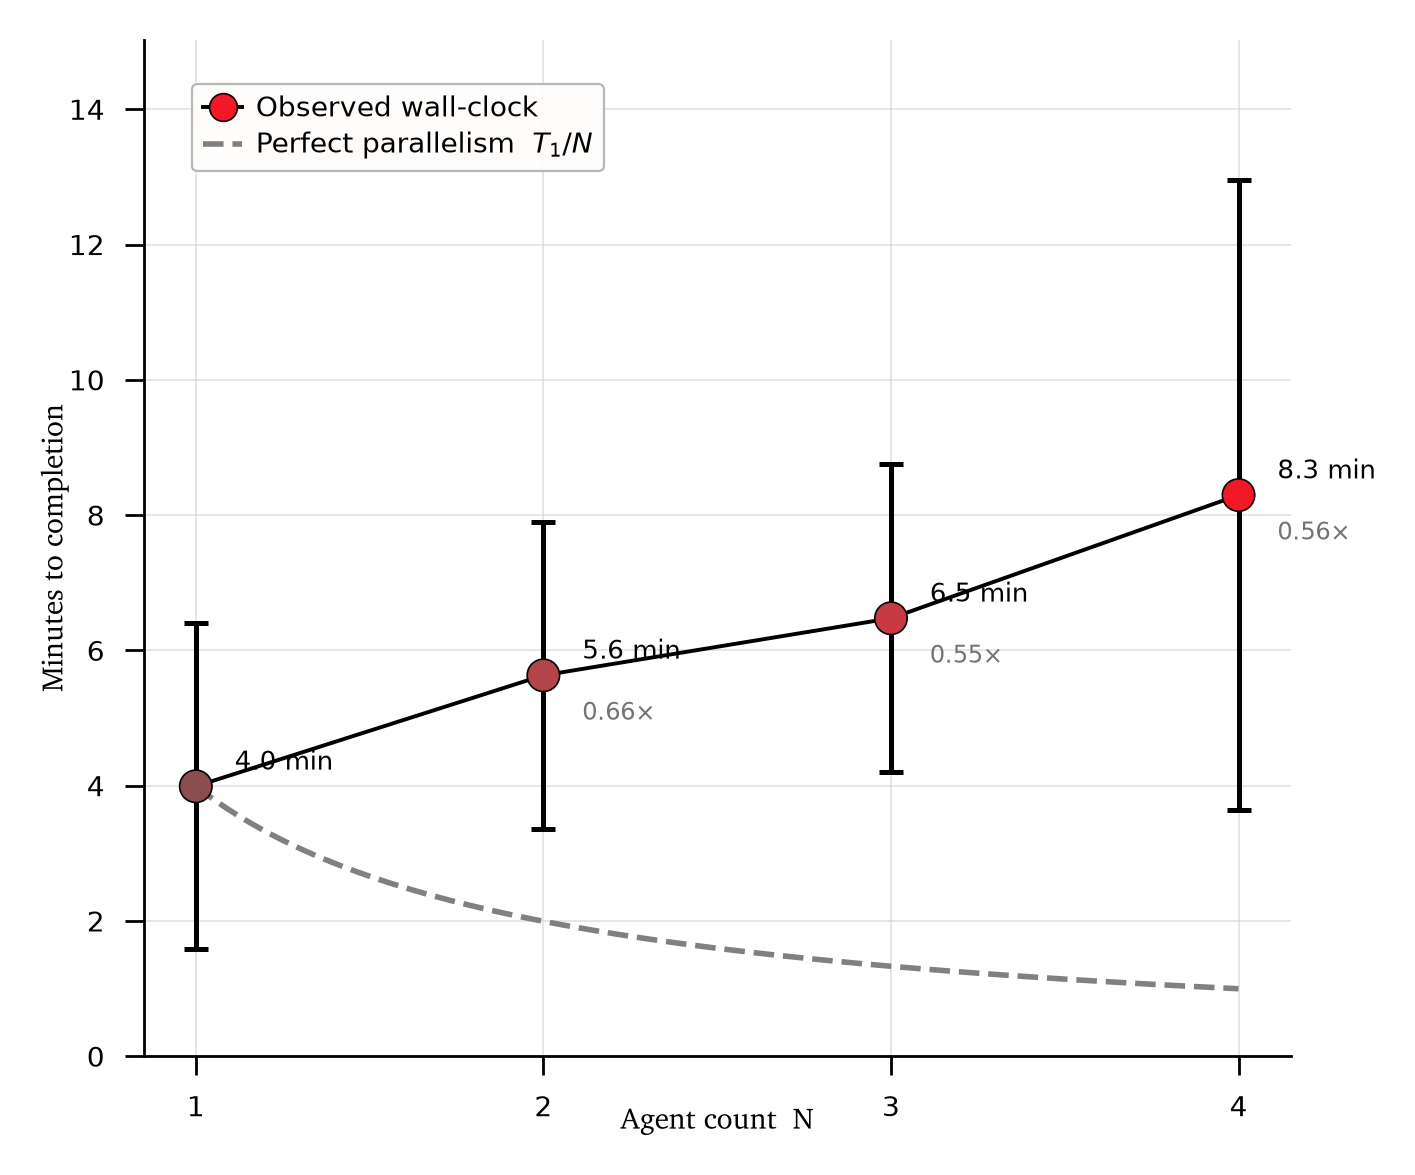
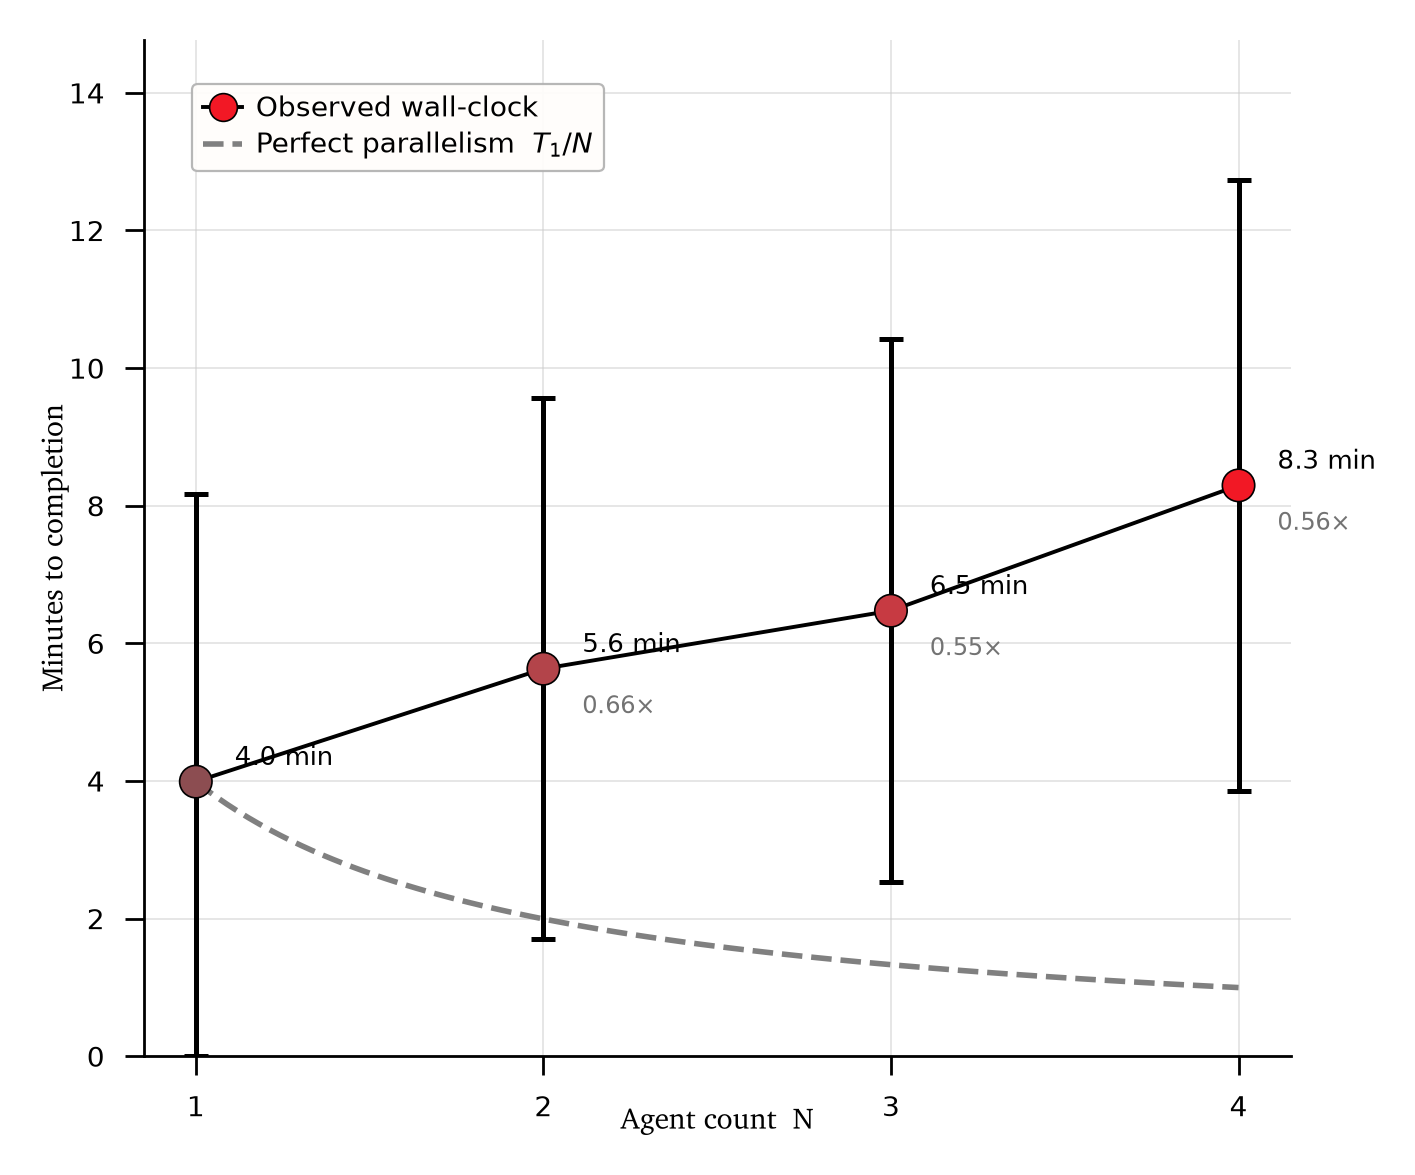
figures: switch every error bar to +/-1 SD across pool means
Replaces the 95% confidence intervals with plain standard deviation, at the
author's request, for a simpler and more uniform story. Deliberately kept to
ONE self-contained commit so `git revert` restores the CI bars wholesale.

What changed. Every series in every figure now draws the same thing: average
the runs within each pool, then take the SD across those 14 (or 6) pool means.
_pool_sd (scaling) and _sd (leader) are the only constructions left; the 95% t
tables, the Wilson intervals and the per-figure _cost_ci/_time_ci/_correctness_ci
helpers are gone.

This also settles an inconsistency the CI version carried: fig2a's blue series
clustered by pool while its orange series treated all 44 runs as independent,
and fig3b did the same. Runs inside a pool share a repo, a task and a feature
clique, so the unclustered bars were 1.3x-2.6x too narrow. Both series are now
built identically, so they are directly comparable.

Two choices worth recording:

- SD across POOL means, not across runs. For the binary all-pass outcome the
  run-level SD is just sqrt(p(1-p)) -- fixed by the rate already plotted, so it
  carries no information and would read 0.46 at N=4.
- Bars clipped to the logical bound: [0,1] for the fractions, >=0 for cost and
  minutes. A pass rate cannot exceed 100%, so clipping is honest rather than
  cosmetic.

Two layout fixes the taller bars forced:

- fig2a, fig3b and fig3d overlay two series on one x, so the taller bar sat on
[…]

diff --git a/masters_thesis/scaling_analysis/figures.py b/masters_thesis/scaling_analysis/figures.py
@@ -130,66 +130,56 @@ def _bar_colour(colour, darken=0.60, sat_boost=1.15):
     return colorsys.hsv_to_rgb(h, min(1.0, s * sat_boost), max(0.0, v * darken))
 
 
-# two-sided t critical values at 95% by degrees of freedom (small-sample honest)
-_T975 = {1: 12.706, 2: 4.303, 3: 3.182, 4: 2.776, 5: 2.571, 6: 2.447, 7: 2.365,
-         8: 2.306, 9: 2.262, 10: 2.228, 11: 2.201, 12: 2.179, 13: 2.160}
+def _pool_sd(recs, field, key_n="N", scale=1.0):
+    """Per-N mean and +/-1 SD across POOL means, for every error bar we draw.
 
+    One construction for every series in every figure: average the runs within
+    each pool, then take the plain standard deviation across those pool means.
+    Bars are the *spread between pools*, not a confidence interval — they make
+    no inferential claim and are not a significance test.
 
-def _correctness_ci(recs):
-    """Per-N 95% error bars for fig2a.
-    Graded score: CI of the mean, clustered by pool (t across the pool means, so
-    the real replication unit is the pool, not the individual run).
-    All-pass rate: Wilson 95% interval for a binomial proportion.
-    Returns {N: {score_hw, allp_lo, allp_hi}} as distances from each point."""
+    The pool is the unit rather than the run for two reasons. Runs inside a
+    pool share a repo, a task and a feature clique, so they are not independent
+    observations; and for a binary outcome (all-pass) the run-level SD is just
+    sqrt(p(1-p)), which is fixed by the rate itself and carries no information
+    beyond the point already plotted.
+
+    Returns {N: {"mean", "sd", "n_pools"}}, with values multiplied by `scale`
+    (used to convert seconds to minutes).
+    """
     from collections import defaultdict
 
-    by_n = defaultdict(list)
+    by_n = defaultdict(lambda: defaultdict(list))
     for r in recs:
-        by_n[r["N"]].append(r)
+        v = r[field]
+        if v is None:
+            continue
+        by_n[r[key_n]][r["pool_id"]].append(float(v) * scale)
     out = {}
-    for N, g in by_n.items():
-        by_pool = defaultdict(list)
-        for r in g:
-            by_pool[r["pool_id"]].append(r["score"])
+    for N, by_pool in by_n.items():
         pool_means = np.array([np.mean(v) for v in by_pool.values()])
         k = len(pool_means)
-        if k > 1:
-            sem = pool_means.std(ddof=1) / np.sqrt(k)
-            score_hw = _T975.get(k - 1, 1.96) * sem
-        else:
-            score_hw = 0.0
-
-        n = len(g)
-        p = sum(1 for r in g if r["all_passed"]) / n
-        z = 1.96
-        denom = 1 + z * z / n
-        center = (p + z * z / (2 * n)) / denom
-        half = z * np.sqrt(p * (1 - p) / n + z * z / (4 * n * n)) / denom
-        out[N] = {"score_hw": score_hw,
-                  "allp_lo": p - (center - half),
-                  "allp_hi": (center + half) - p,
+        out[N] = {"mean": float(pool_means.mean()),
+                  "sd": float(pool_means.std(ddof=1)) if k > 1 else 0.0,
                   "n_pools": k}
     return out
 
 
-def _cost_ci(recs):
-    """Per-N 95% CI of the mean cost, clustered by pool (same construct as the
-    graded-score bars in fig2a). Returns {N: {cost_hw, n_pools}}."""
-    from collections import defaultdict
+def _clip_bars(points, sds, lo=None, hi=None):
+    """Split symmetric SD bars into [down, up] distances, clipped to a range.
 
-    by_n = defaultdict(list)
-    for r in recs:
-        by_n[r["N"]].append(r)
-    out = {}
-    for N, g in by_n.items():
-        by_pool = defaultdict(list)
-        for r in g:
-            by_pool[r["pool_id"]].append(r["cost"])
-        pool_means = np.array([np.mean(v) for v in by_pool.values()])
-        k = len(pool_means)
-        sem = pool_means.std(ddof=1) / np.sqrt(k) if k > 1 else 0.0
-        out[N] = {"cost_hw": _T975.get(k - 1, 1.96) * sem, "n_pools": k}
-    return out
+    Graded score and all-pass are fractions, so a bar may not extend past 0 or
+    1; wall-clock and cost may not go below 0. Clipping at the logical bound is
+    honest — the quantity genuinely cannot live outside it — and keeps the bars
+    inside the axes.
+    """
+    down, up = [], []
+    for p, s in zip(points, sds):
+        d = s if lo is None else min(s, p - lo)
+        u = s if hi is None else min(s, hi - p)
+        down.append(max(d, 0.0))
+        up.append(max(u, 0.0))
+    return [down, up]
 
 
 def _save(fig, name, facecolor=SURFACE):
@@ -248,21 +238,30 @@ def figure2a(recs):
     # carry its own fraction-scaled colour (green = score, orange = all-pass)
     ax.plot(ns, score, "-", color="black", lw=0.7, zorder=3)
     ax.plot(ns, allp, "-", color="black", lw=0.7, zorder=3)
-    # 95% CI error bars (score: pool-clustered t; all-pass: Wilson)
-    ci = _correctness_ci(recs)
+    # +/-1 SD across pool means — the same construction for BOTH series, so the
+    # two sets of bars are directly comparable
+    ci = _pool_sd(recs, "score")
+    ap = _pool_sd(recs, "all_passed")
     # two series, two bar colours: blue bars belong to the graded score, rust
-    # bars to the all-pass rate. The intervals overlap vertically at several N,
-    # so a shared grey left them unattributable.
+    # bars to the all-pass rate. The bars overlap vertically at several N, so a
+    # shared grey left them unattributable.
     # the orange is lifted (darken 0.82, not the default 0.60) so it reads as
     # the warm series at a glance — the brightest value that still clears the
     # 4.5:1 contrast floor on white, at 4.7
     score_bar = _bar_colour(_score_shade(0.95))
     allp_bar = _bar_colour(_allpass_shade(0.88), darken=0.82)
-    ax.errorbar(ns, score, yerr=[ci[N]["score_hw"] for N in ns], fmt="none",
-                ecolor=score_bar, elinewidth=0.9, capsize=2.2, capthick=0.9, zorder=3)
-    ax.errorbar(ns, allp, yerr=[[ci[N]["allp_lo"] for N in ns],
-                                [ci[N]["allp_hi"] for N in ns]], fmt="none",
-                ecolor=allp_bar, elinewidth=0.9, capsize=2.2, capthick=0.9, zorder=3)
+    # SD bars are far taller than the old CIs and both series share an x, so the
+    # all-pass bar would sit exactly on top of the score bar and hide it. Dodge
+    # the BARS a hair apart; markers and lines stay on the true N.
+    dx = 0.055
+    ax.errorbar([n - dx for n in ns], score,
+                yerr=_clip_bars(score, [ci[N]["sd"] for N in ns], 0.0, 1.0),
+                fmt="none", ecolor=score_bar, elinewidth=0.9, capsize=2.2,
+                capthick=0.9, zorder=3)
+    ax.errorbar([n + dx for n in ns], allp,
+                yerr=_clip_bars(allp, [ap[N]["sd"] for N in ns], 0.0, 1.0),
+                fmt="none", ecolor=allp_bar, elinewidth=0.9, capsize=2.2,
+                capthick=0.9, zorder=3)
     ax.scatter(ns, score, s=32, marker="o", zorder=4, linewidths=0.3,
                edgecolors="black", c=[_score_shade(v) for v in score])
     ax.scatter(ns, allp, s=32, marker="s", zorder=4, linewidths=0.3,
@@ -274,7 +273,7 @@ def figure2a(recs):
     for x, y in zip(ns, allp):
         ax.annotate(f"{y:.0%}", (x, y), textcoords="offset points", xytext=(8, -8),
                     ha="left", fontsize=4.7, color="black", fontname="Helvetica")
-    # pool count behind each N's error bars (drives the CI width)
+    # pool count behind each N's error bars (the SD is taken across these)
     for N in ns:
         ax.text(N, 1.10, f"{ci[N]['n_pools']} pools", ha="center", va="bottom",
                 fontsize=4.3, color="0.45", fontname="Helvetica")
@@ -306,14 +305,15 @@ def figure2b(recs):
     ax.plot(xline, slope * xline + intercept, "--", color="0.5", lw=1.0, zorder=2)
     ax.plot(ns, cost, "-", color="black", lw=0.7, zorder=3)
     # 95% CI of mean cost, clustered by pool (matches fig2a)
-    ci = _cost_ci(recs)
+    ci = _pool_sd(recs, "cost")  # +/-1 SD across pool means
     # one hue (violet); markers deepen/brighten with cost but read as one series
     lo, hi = min(cost), max(cost)
     cvals = [_mono_shade(c, COST_HUE, lo, hi) for c in cost]
     # single series, so there is nothing to disambiguate by hue: black gives the
     # bars maximum contrast and keeps them distinct from the grey linear fit
-    ax.errorbar(ns, cost, yerr=[ci[N]["cost_hw"] for N in ns], fmt="none",
-                ecolor="black", elinewidth=0.9, capsize=2.2, capthick=0.9, zorder=3)
+    ax.errorbar(ns, cost, yerr=_clip_bars(cost, [ci[N]["sd"] for N in ns], lo=0.0),
+                fmt="none", ecolor="black", elinewidth=0.9, capsize=2.2,
+                capthick=0.9, zorder=3)
     ax.scatter(ns, cost, s=34, marker="o", zorder=4, linewidths=0.3,
                edgecolors="black", c=cvals)
     for x, y in zip(ns, cost):
@@ -321,10 +321,10 @@ def figure2b(recs):
                     ha="left", fontsize=4.7, color="black", fontname="Helvetica")
     # pool count above each error bar (drives the CI width)
     for N, y in zip(ns, cost):
-        ax.annotate(f"{ci[N]['n_pools']} pools", (N, y + ci[N]["cost_hw"]),
+        ax.annotate(f"{ci[N]['n_pools']} pools", (N, y + ci[N]["sd"]),
                     textcoords="offset points", xytext=(0, 4), ha="center",
                     va="bottom", fontsize=4.3, color="0.45", fontname="Helvetica")
-    top = max(c + ci[N]["cost_hw"] for N, c in zip(ns, cost))
+    top = max(c + ci[N]["sd"] for N, c in zip(ns, cost))
     ax.set_ylim(0, top * 1.16)
     _fig2_chrome(fig, ax, ns, "US dollars")
     return _save(fig, "fig2b_cost.png", facecolor="white")
@@ -448,14 +448,15 @@ def figure2e(recs):
     ax.plot(xline, t1 / xline, "--", color="0.5", lw=1.0, zorder=2)
     ax.plot(ns, walls, "-", color="black", lw=0.7, zorder=3)
     # 95% CI of mean wall time, clustered by pool (matches fig2a/2b)
-    ci = _time_ci(recs)
+    ci = _pool_sd(recs, "wall_seconds", scale=1.0 / 60)  # +/-1 SD across pool means
     # one hue (warm red); markers deepen as time inflates but read as one series
     lo, hi = min(walls), max(walls)
     cvals = [_mono_shade(w, TIME_HUE, lo, hi) for w in walls]
     # single series: black, for maximum contrast and a clean separation from
     # the grey dashed T1/N ideal running through the same region
-    ax.errorbar(ns, walls, yerr=[ci[N]["wall_hw"] for N in ns], fmt="none",
-                ecolor="black", elinewidth=0.9, capsize=2.2, capthick=0.9, zorder=3)
+    ax.errorbar(ns, walls, yerr=_clip_bars(walls, [ci[N]["sd"] for N in ns], lo=0.0),
+                fmt="none", ecolor="black", elinewidth=0.9, capsize=2.2,
+                capthick=0.9, zorder=3)
     ax.scatter(ns, walls, s=34, marker="o", zorder=4, linewidths=0.3,
                edgecolors="black", c=cvals)
     for x, y in zip(ns, walls):
@@ -467,7 +468,7 @@ def figure2e(recs):
             ax.annotate(f"{t[x]['speedup_mean']:.2f}×", (x, y),
                         textcoords="offset points", xytext=(7, -8), ha="left",
                         fontsize=4.3, color="0.45", fontname="Helvetica")
-    top = max(w + ci[N]["wall_hw"] for N, w in zip(ns, walls))
+    top = max(w + ci[N]["sd"] for N, w in zip(ns, walls))
     ax.set_ylim(0, top * 1.16)
     handles = [
         Line2D([0], [0], color="black", lw=0.7, marker="o", markersize=5,
@@ -481,26 +482,6 @@ def figure2e(recs):
     _fig2_legend(ax, handles, loc="upper left", bbox=(0.03, 0.97))
     return _save(fig, "fig2e_wall_clock.png", facecolor="white")
 
-
-def _time_ci(recs):
-    """Per-N 95% CI of the mean wall time (minutes), clustered by pool (same
-    construct as the fig2a/2b bars). Returns {N: {wall_hw, n_pools}}."""
-    from collections import defaultdict
-
-    by_n = defaultdict(list)
-    for r in recs:
-        if r.get("wall_seconds") is not None:
-            by_n[r["N"]].append(r)
-    out = {}
-    for N, g in by_n.items():
-        by_pool = defaultdict(list)
-        for r in g:
-            by_pool[r["pool_id"]].append(r["wall_seconds"] / 60)
-        pool_means = np.array([np.mean(v) for v in by_pool.values()])
-        k = len(pool_means)
-        sem = pool_means.std(ddof=1) / np.sqrt(k) if k > 1 else 0.0
-        out[N] = {"wall_hw": _T975.get(k - 1, 1.96) * sem, "n_pools": k}
-    return out
 
 
 def main():

diff --git a/masters_thesis/leader_analysis/figures.py b/masters_thesis/leader_analysis/figures.py
@@ -54,9 +54,8 @@ SURFACE = "#fffdfb"   # faint warm off-white surface
 # module named `figures` (and one named `analyze`), so cross-importing collides;
 # self-containment is the same property the fig2 suite advertises.
 
-# two-sided t critical values at 95% by degrees of freedom (small-sample honest)
-_T975 = {1: 12.706, 2: 4.303, 3: 3.182, 4: 2.776, 5: 2.571, 6: 2.447, 7: 2.365,
-         8: 2.306, 9: 2.262, 10: 2.228, 11: 2.201, 12: 2.179, 13: 2.160}
+# (the 95% t table that used to live here went with the CI bars — every figure
+#  now draws +/-1 SD across pool means instead; see _sd)
 
 
 def _style():
@@ -176,20 +175,36 @@ ACCOUNTS = [("Context", "context", "#cfe6ef"), ("Task", "task", "#1b7ba0"),
             ("Comm", "comm", "#ef8080"), ("Rework", "rework", "#b01e28")]
 
 
-def _ci(recs, arm, field, agents):
-    """95% CI half-width of the mean, clustered by pool (matches fig2a/2b)."""
+def _sd(recs, arm, field, agents):
+    """+/-1 SD across POOL means — the single construction behind every bar.
+
+    Matches fig2a/2b/2e: average the runs within each pool, then take the plain
+    standard deviation across those pool means. This is descriptive spread
+    between pools, not a confidence interval, so it makes no inferential claim
+    and is not a significance test. The pool is the unit because runs inside one
+    share a repo, a task and a feature clique, and because for a binary outcome
+    the run-level SD is just sqrt(p(1-p)) — fixed by the rate already plotted.
+    """
     from collections import defaultdict
     by_pool = defaultdict(list)
     for r in recs:
         if r["arm"] == arm and r["agents"] == agents and r.get(field) is not None:
-            by_pool[r["pool_id"]].append(r[field])
-    if not by_pool:
-        return 0.0
+            by_pool[r["pool_id"]].append(float(r[field]))
     pool_means = np.array([np.mean(v) for v in by_pool.values()])
-    k = len(pool_means)
-    if k < 2:
+    if len(pool_means) < 2:
         return 0.0
-    return _T975.get(k - 1, 1.96) * pool_means.std(ddof=1) / np.sqrt(k)
+    return float(pool_means.std(ddof=1))
+
+
+def _clip_bars(points, sds, lo=None, hi=None):
+    """Split symmetric SD bars into [down, up] distances, clipped to a range."""
+    down, up = [], []
+    for p, s in zip(points, sds):
+        d = s if lo is None else min(s, p - lo)
+        u = s if hi is None else min(s, hi - p)
+        down.append(max(d, 0.0))
+        up.append(max(u, 0.0))
+    return [down, up]
 
 
 def _save(fig, name, facecolor="white"):
@@ -268,16 +283,12 @@ def figure3b(recs):
     handles = []
     for arm, colour, label, ly in (("flat", FLAT, "Flat peers", 7), ("leader", LEADER, "Supervised", -11)):
         ns, ys = _arm_points(agg, arm, "all_pass_rate")
-        # Wilson 95% interval for a binomial proportion (matches fig2a)
-        los, his = [], []
-        for n, p in zip(ns, ys):
-            k = agg[(arm, n)]["n_runs"]
-            z = 1.96
-            den = 1 + z * z / k
-            centre = (p + z * z / (2 * k)) / den
-            half = z * np.sqrt(p * (1 - p) / k + z * z / (4 * k * k)) / den
-            los.append(max(p - (centre - half), 0)); his.append(max((centre + half) - p, 0))
-        ax.errorbar(ns, ys, yerr=[los, his], fmt="none",
+        # +/-1 SD across pool means, clipped to [0, 1] (matches fig2a)
+        errs = [_sd(recs, arm, "all_passed", n) for n in ns]
+        # dodge the bars so the two arms' SD bars do not sit on top of each
+        # other at the sizes N where both are present (markers stay on true N)
+        dx = 0.055 if arm == "leader" else -0.055
+        ax.errorbar([n + dx for n in ns], ys, yerr=_clip_bars(ys, errs, 0.0, 1.0), fmt="none",
                     ecolor=_bar_colour(colour, BAR_DARKEN[arm]),
                     elinewidth=0.9, capsize=2.2, capthick=0.9, zorder=3)
         ax.plot(ns, ys, "-", color="black", lw=0.7, zorder=3)
@@ -358,11 +369,14 @@ def figure3d(recs):
     xline = np.linspace(1, 5, 100)
     ax.plot(xline, t1 / xline, "--", color="0.5", lw=1.0, zorder=2)
     handles = []
+    bar_top = 0.0  # tallest point+SD, so the ylim below leaves room for the bars
     for arm, colour, label in (("flat", FLAT, "Flat peers"), ("leader", LEADER, "Supervised")):
         ns = sorted(n for (a, n) in t if a == arm)
         ys = [t[(arm, n)]["mean_wall_s"] / 60 for n in ns]
-        errs = [_ci(recs, arm, "wall_seconds", n) / 60 for n in ns]
-        ax.errorbar(ns, ys, yerr=errs, fmt="none",
+        errs = [_sd(recs, arm, "wall_seconds", n) / 60 for n in ns]
+        bar_top = max(bar_top, max(y + e for y, e in zip(ys, errs)))
+        dx = 0.055 if arm == "leader" else -0.055
+        ax.errorbar([n + dx for n in ns], ys, yerr=_clip_bars(ys, errs, lo=0.0), fmt="none",
                     ecolor=_bar_colour(colour, BAR_DARKEN[arm]),
                     elinewidth=0.9, capsize=2.2, capthick=0.9, zorder=3)
         ax.plot(ns, ys, "-", color="black", lw=0.7, zorder=3)
@@ -373,8 +387,7 @@ def figure3d(recs):
         handles.append(Line2D([0], [0], color="black", lw=0.7, marker="o", markersize=5,
                               markerfacecolor=colour, markeredgecolor="black", markeredgewidth=0.3, label=label))
     handles.append(Line2D([0], [0], color="0.5", lw=1.0, ls="--", label="Perfect parallelism  $T_1/N$"))
-    top = max(t[k]["mean_wall_s"] / 60 for k in t)
-    ax.set_ylim(0, top * 1.3)
+    ax.set_ylim(0, bar_top * 1.08)
     _fig2_chrome(fig, ax, [1, 2, 3, 4, 5], "Minutes to completion")
     _fig2_legend(ax, handles, loc="upper left", bbox=(0.03, 0.97))
     return _save(fig, "fig3d_wallclock_topology.png", facecolor="white")
